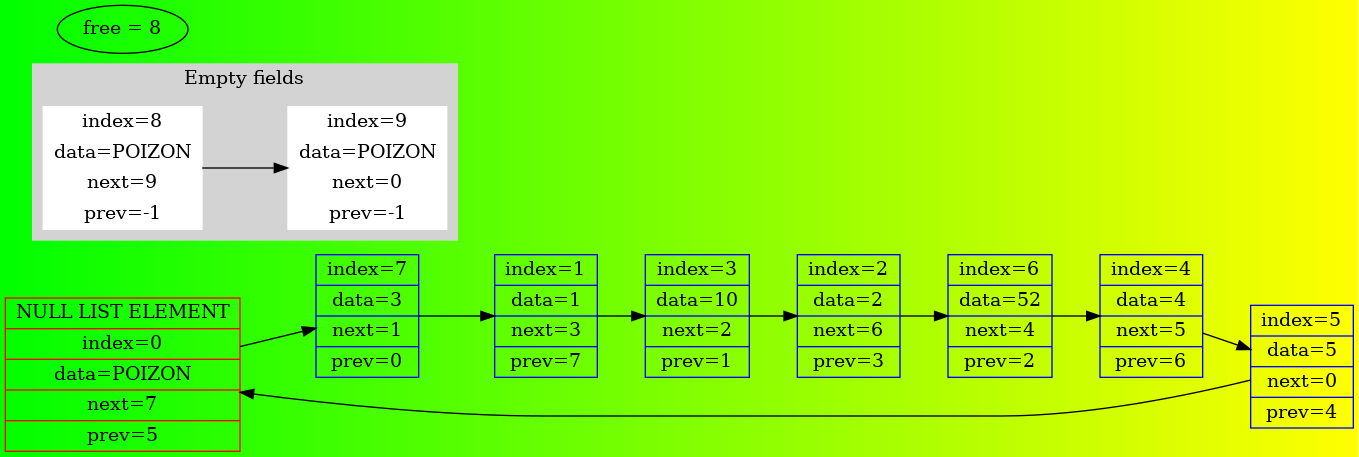
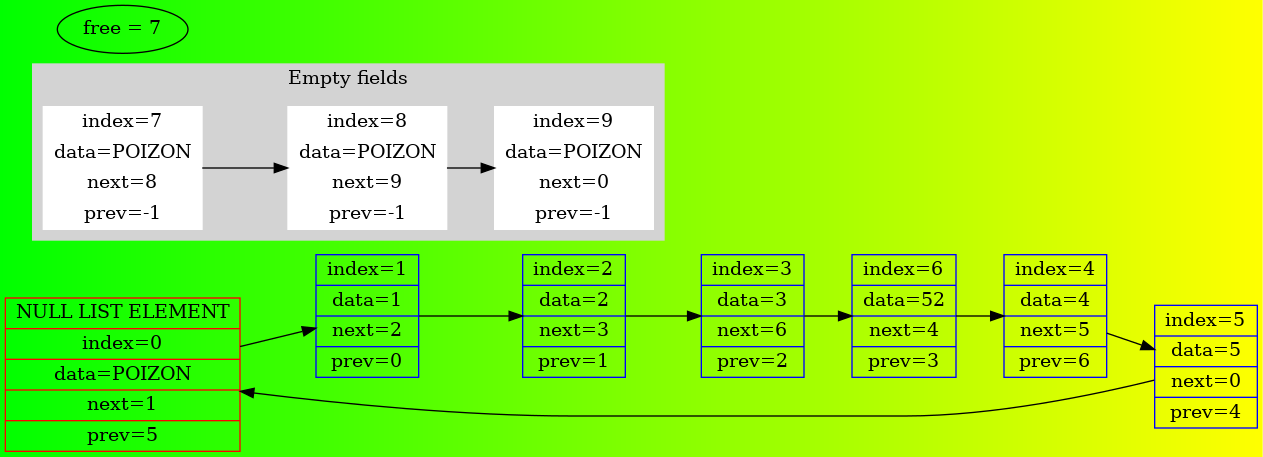
Normal view

diff --git a/list.cpp b/list.cpp
@@ -206,9 +206,9 @@ void dump(List* list)
     printf("-----------------LIST------------------\n\n\n");
 }
 
-void dump_to_dot(List* list)
+void dump_to_dot(List* list, int num_graph)
 {
-    FILE* f_dot = fopen("output/list.dot", "w");
+    FILE* f_dot = fopen("output/list.dot", "a");
 
     assert(f_dot);
     assert(list);
@@ -216,7 +216,7 @@ void dump_to_dot(List* list)
         fprintf(stderr, "FILE OPEN ERROR!!!\n");
 
 
-    fprintf(f_dot, "digraph LIST {\n\trankdir=LR;\n\tbgcolor = \"green:yellow\";\n");
+    fprintf(f_dot, "digraph LIST%d {\n\trankdir=LR;\n\tbgcolor = \"green:yellow\";\n", num_graph);
 
     fprintf(f_dot, "\tnode0 [shape=record, color=red,"
                    "label=\" NULL LIST ELEMENT | index=0 | data=POIZON | next=%d | prev=%d \" ];\n",
@@ -263,10 +263,17 @@ void dump_to_dot(List* list)
 
     fprintf(f_dot, "\t\"free = %zu\";\n", list -> free);
 
-    fprintf(f_dot, "}");
+    fprintf(f_dot, "}\n\n");
 
     fclose(f_dot);
+
 }
+
+// void Dot_file_compile()
+// {
+//     const char* com[50] = "dot -Tpng output/list.dot > output/list.png";
+//      system
+// }
 
 int Adress_not_list_elem(size_t num, List* list)
 {

diff --git a/main.cpp b/main.cpp
@@ -13,19 +13,19 @@ int main()
 
     Insert_elem_after_num(&list, 52, 3);
 
-    // dump_to_dot(&list);
+    dump_to_dot(&list, 1);
 
     Pop_elem(&list, 3);
 
-    // dump_to_dot(&list);
+    dump_to_dot(&list, 2);
 
     Insert_elem_before_num(&list, 10, 2);
 
-    // dump_to_dot(&list);
+    dump_to_dot(&list, 3);
 
     Insert_first_elem(&list, 3);
 
-    dump_to_dot(&list);
+    dump_to_dot(&list, 4);
 
     Search_elem_by_val(&list, 52);
 

diff --git a/list.h b/list.h
@@ -43,7 +43,7 @@ int Pop_null_elem(size_t num);
 
 Errors Pop_elem(List* list, size_t num);
 
-void dump_to_dot(List* list);
+void dump_to_dot(List* list, int num_graph);
 
 void Search_elem_by_val(List* list, list_elem val);
 
